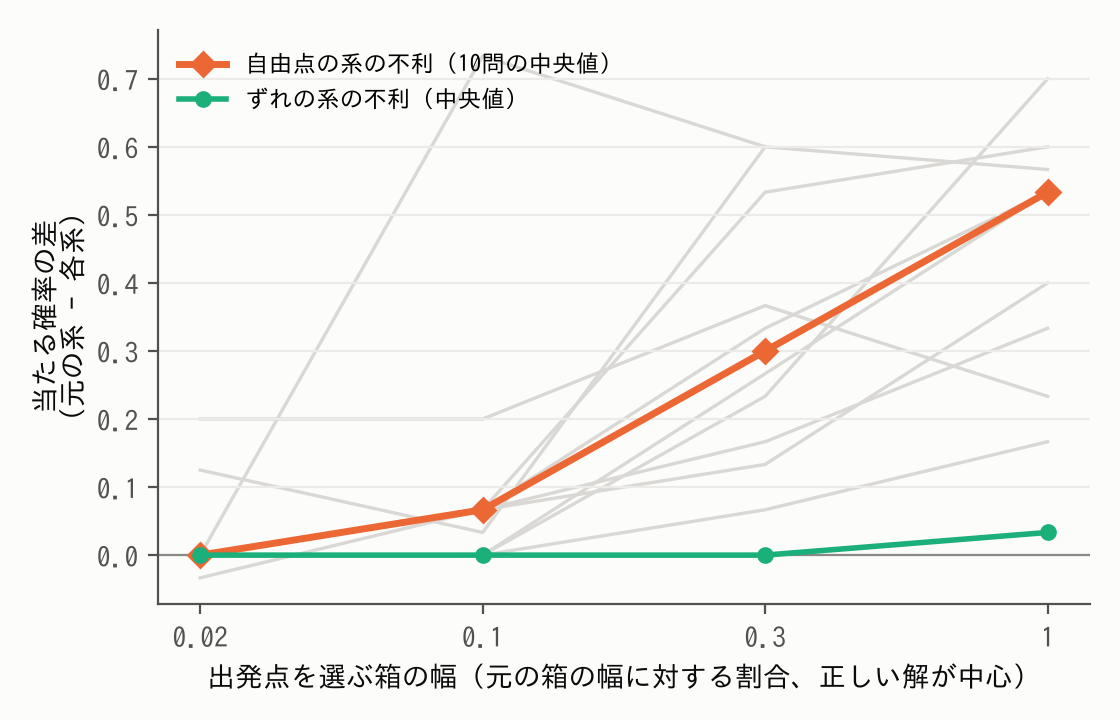
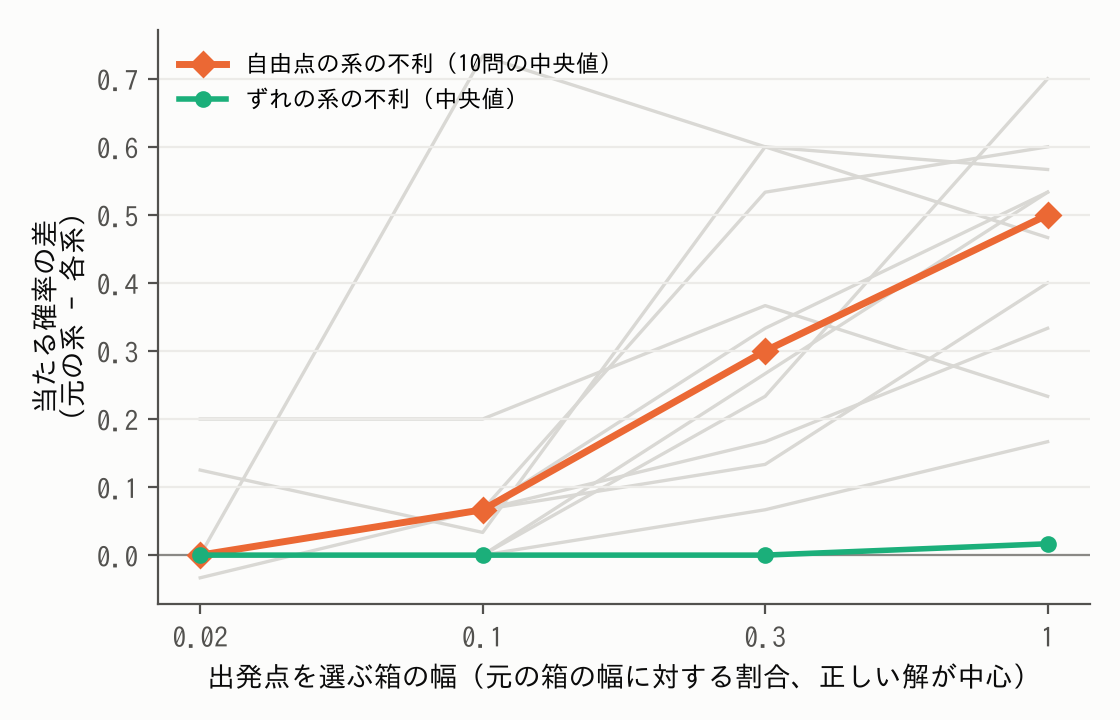
jssa: near-start results complete (10 problems x 4 radii)
Claude-Session: https://claude.ai/code/session_01FBGkqymo2HRKc1KbneEmbc

diff --git a/jssa/draft/report-draft-v7.md b/jssa/draft/report-draft-v7.md
@@ -96,7 +96,7 @@ t/p を、評価1回の費用 c と、1回の局所探索の評価回数 n（微
 
 では、自由点の系では何が起きているのか。LM法の減衰を外したニュートン法で、AIME 2014 II-14（k = 3、自由点の系で当たる確率1.00→0.03）を追跡した（S2.5）。最初の一歩で u を動かす向きは、元の系と完全に同じだった。書き換えた点が元の等式に現れないとき、ニュートン法の u の向きは y によらないことが式からも言える。違ったのは一歩の長さだった。出発点が解から遠いと、提案される一歩は大きい。元の系は、その一歩を 1/128 に縮めて受け入れ、7回で収束した。自由点の系では、同じ一歩で作図の式（非線形）の残差が増えるため、1/8192 まで縮めないと受け入れられず、200回の上限までに収束しなかった。実際のLM法でも、自由点の系の失敗58回はすべて評価の上限で止まっていた。作図で計算する系は点を毎回正確に作り直すので、この制限がない。
 
-この説明は、作図の式の非線形性が一歩の長さを制限するというものである。したがって、自由点の系の不利は出発点と解の距離とともに増え、解の近くでは消えるはずである。実行前にこの予測を固定し、自由点の系が0.2以上不利だった10問で、出発点を正しい解の周りの幅 r の箱から選んで確かめた（r = 箱の幅の2%〜100%、各30個）。予測どおり、r = 2% では10問中8問で自由点の系は元の系とほぼ同じ（差0.10以内）で、中央値はどちらも1.00だった。r を広げると、自由点の系の不利の中央値は 0、0.07、0.30、0.53 と増えた。ずれの系の不利は、どの r でも中央値0〜0.03だった（図3、S2.5）。解の近くでどの系も収束すること自体は、局所収束の定理から当然である。この実験が示したのは、不利が距離とともに増えること、そして同じ距離でもずれの系にはそれがほとんど出ないことである。
+この説明は、作図の式の非線形性が一歩の長さを制限するというものである。したがって、自由点の系の不利は出発点と解の距離とともに増え、解の近くでは消えるはずである。実行前にこの予測を固定し、自由点の系が0.2以上不利だった10問で、出発点を正しい解の周りの幅 r の箱から選んで確かめた（r = 箱の幅の2%〜100%、各30個）。予測どおり、r = 2% では10問中8問で自由点の系は元の系とほぼ同じ（差0.10以内）で、中央値はどちらも1.00だった。r を広げると、自由点の系の不利の中央値は 0、0.07、0.30、0.50 と増えた。ずれの系の不利は、どの r でも中央値0〜0.02だった（図3、S2.5）。解の近くでどの系も収束すること自体は、局所収束の定理から当然である。この実験が示したのは、不利が距離とともに増えること、そして同じ距離でもずれの系にはそれがほとんど出ないことである。
 
 ![図3](figures/fig3_near_start.png)
 図3　出発点を正しい解の周りの箱から選んだときの、当たる確率の差（元の系 − 各系）。細い線は各問題の自由点の系。
